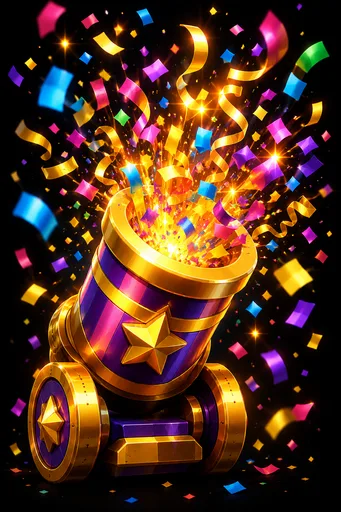
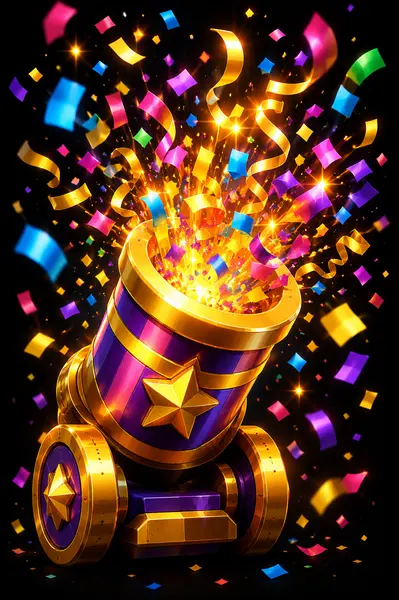
feat: victory screen artwork, tap effects 2x slower, version system, buy dialog security fix
- Add artwork for 3 missing victory screens (404, Humble Brag, Moby Dick)
- Update confetti/lightning/royal victory screen artwork from new PNGs
- Slow all tap effects 2x (CSS + JS + remove timeouts synced)
- Fix buy dialog security: _storeBuyMode not reset on cancel allowed free purchases
- Version system: single source of truth in version.js (GAME_VERSION + BUILD_NUMBER)
  auto-populates badge, about screen, what's new header

diff --git a/tile-royale-app/tile-royale-app/www/js/skins/tileSkins.js b/tile-royale-app/tile-royale-app/www/js/skins/tileSkins.js
@@ -78,9 +78,9 @@ const SKINS = {
     { id:'vic_disco',     name:'Disco Survivor',      icon:'🕺', price:200,  owned:false, tier:'rare',      preview:'disco',     art:'assets/victory-art/vic-disco.webp',     tagline:'Still standing. Still dancing.' },
     { id:'vic_goat',      name:'Greatest Of All Taps',icon:'🐐', price:400,  owned:false, tier:'epic',      preview:'goat',      art:'assets/victory-art/vic-goat.webp',      tagline:'The GOAT has arrived.' },
     { id:'vic_cheese',    name:'Big Cheese Energy',   icon:'🧀', price:400,  owned:false, tier:'epic',      preview:'cheese',    art:'assets/victory-art/vic-cheese.webp',    tagline:'Respect the cheese.' },
-    { id:'vic_404',       name:'404: Skill Found',    icon:'💻', price:800,  owned:false, tier:'legendary', preview:'404',                                                    tagline:'Error: Defeat not found.' },
-    { id:'vic_humble',    name:'Humble Brag',         icon:'🙄', price:800,  owned:false, tier:'legendary', preview:'humble',                                                 tagline:'Just lucky. Again.' },
-    { id:'vic_mobydick',  name:'Moby Dick',           icon:'🐋', price:0,    owned:false, tier:'default',   preview:'mobydick',  whale:true,                                  tagline:'The ocean answers to you.' },
+    { id:'vic_404',       name:'404: Skill Found',    icon:'💻', price:800,  owned:false, tier:'legendary', preview:'404',      art:'assets/victory-art/vic-404.webp',      tagline:'Error: Defeat not found.' },
+    { id:'vic_humble',    name:'Humble Brag',         icon:'🙄', price:800,  owned:false, tier:'legendary', preview:'humble',   art:'assets/victory-art/vic-humble.webp',   tagline:'Just lucky. Again.' },
+    { id:'vic_mobydick',  name:'Moby Dick',           icon:'🐋', price:0,    owned:false, tier:'default',   preview:'mobydick', art:'assets/victory-art/vic-mobydick.webp', whale:true, tagline:'The ocean answers to you.' },
   ],
   tapeffect: [
     { id: 'tap_ripple',    name: 'Ripple',        icon: '💧', price: 0,    owned: true,  tier:'default' },
@@ -315,20 +315,20 @@ function getBurningStyle(fxSkinId) {
 // Returns inline style for tap effect overlay div
 function getTapStyle(tapSkinId) {
   const styles = {
-    tap_ripple:    { borderRadius:'50%', background:'rgba(255,255,255,0.35)', animation:'rippleAnim 0.4s ease-out forwards' },
-    tap_explosion: { borderRadius:'20%', background:'radial-gradient(circle,#ff8800,#ff2200)', animation:'explodeAnim 0.4s ease-out forwards' },
-    tap_starburst: { background:'radial-gradient(circle,#ffff00,#ffaa00)', clipPath:'polygon(50% 0%,61% 35%,98% 35%,68% 57%,79% 91%,50% 70%,21% 91%,32% 57%,2% 35%,39% 35%)', animation:'starAnim 0.45s ease-out forwards' },
-    tap_shatter:   { border:'2px solid #aaddff', borderRadius:'4px', animation:'shatterAnim 0.4s ease-out forwards' },
-    tap_lightning: { width:'3px', height:'100%', left:'50%', transform:'translateX(-50%)', background:'linear-gradient(to bottom,#ffff00,#ffffff)', boxShadow:'0 0 6px #ffff00', animation:'lightningAnim 0.3s ease-out forwards' },
-    tap_smoke:     { borderRadius:'50%', background:'radial-gradient(circle,rgba(180,180,180,0.6),transparent)', animation:'smokeAnim 0.5s ease-out forwards' },
-    tap_confetti:  { borderRadius:'30%', background:'conic-gradient(#ff0000,#ffff00,#00ff00,#0000ff,#ff00ff,#ff0000)', animation:'confettiAnim 0.5s ease-out forwards' },
-    tap_icecrack:  { border:'2px solid #aaddff', background:'rgba(150,200,255,0.3)', animation:'icecrackAnim 0.4s ease-out forwards' },
-    tap_portal:    { borderRadius:'50%', background:'conic-gradient(#8800ff,#0044ff,#8800ff)', animation:'portalAnim 0.5s ease-out forwards' },
-    tap_neonpulse: { borderRadius:'50%', border:'2px solid #00ffff', boxShadow:'0 0 8px #00ffff', animation:'neonpulseAnim 0.4s ease-out forwards' },
+    tap_ripple:    { borderRadius:'50%', background:'rgba(255,255,255,0.35)', animation:'rippleAnim 0.8s ease-out forwards' },
+    tap_explosion: { borderRadius:'20%', background:'radial-gradient(circle,#ff8800,#ff2200)', animation:'explodeAnim 0.8s ease-out forwards' },
+    tap_starburst: { background:'radial-gradient(circle,#ffff00,#ffaa00)', clipPath:'polygon(50% 0%,61% 35%,98% 35%,68% 57%,79% 91%,50% 70%,21% 91%,32% 57%,2% 35%,39% 35%)', animation:'starAnim 0.9s ease-out forwards' },
+    tap_shatter:   { border:'2px solid #aaddff', borderRadius:'4px', animation:'shatterAnim 0.8s ease-out forwards' },
+    tap_lightning: { width:'3px', height:'100%', left:'50%', transform:'translateX(-50%)', background:'linear-gradient(to bottom,#ffff00,#ffffff)', boxShadow:'0 0 6px #ffff00', animation:'lightningAnim 0.6s ease-out forwards' },
+    tap_smoke:     { borderRadius:'50%', background:'radial-gradient(circle,rgba(180,180,180,0.6),transparent)', animation:'smokeAnim 1.0s ease-out forwards' },
+    tap_confetti:  { borderRadius:'30%', background:'conic-gradient(#ff0000,#ffff00,#00ff00,#0000ff,#ff00ff,#ff0000)', animation:'confettiAnim 1.0s ease-out forwards' },
+    tap_icecrack:  { border:'2px solid #aaddff', background:'rgba(150,200,255,0.3)', animation:'icecrackAnim 0.8s ease-out forwards' },
+    tap_portal:    { borderRadius:'50%', background:'conic-gradient(#8800ff,#0044ff,#8800ff)', animation:'portalAnim 1.0s ease-out forwards' },
+    tap_neonpulse: { borderRadius:'50%', border:'2px solid #00ffff', boxShadow:'0 0 8px #00ffff', animation:'neonpulseAnim 0.8s ease-out forwards' },
     // Whale exclusive
-    tap_shockwave: { borderRadius:'50%', border:'3px solid #00e5ff', boxShadow:'0 0 12px #00e5ff', animation:'shockwaveAnim 0.5s ease-out forwards' },
-    tap_goldcrack: { borderRadius:'8px', background:'conic-gradient(#ffd700,#ffaa00,#ff8c00,#ffd700)', boxShadow:'0 0 12px rgba(255,215,0,0.8)', animation:'goldcrackAnim 0.45s ease-out forwards' },
-    tap_meteor:    { borderRadius:'30% 70% 70% 30%', border:'2px solid #ff6600', background:'linear-gradient(135deg,#ff2200,#ff8800,#ffcc00)', boxShadow:'0 0 16px rgba(255,100,0,0.8)', animation:'meteorAnim 0.5s ease-out forwards' },
+    tap_shockwave: { borderRadius:'50%', border:'3px solid #00e5ff', boxShadow:'0 0 12px #00e5ff', animation:'shockwaveAnim 1.0s ease-out forwards' },
+    tap_goldcrack: { borderRadius:'8px', background:'conic-gradient(#ffd700,#ffaa00,#ff8c00,#ffd700)', boxShadow:'0 0 12px rgba(255,215,0,0.8)', animation:'goldcrackAnim 0.9s ease-out forwards' },
+    tap_meteor:    { borderRadius:'30% 70% 70% 30%', border:'2px solid #ff6600', background:'linear-gradient(135deg,#ff2200,#ff8800,#ffcc00)', boxShadow:'0 0 16px rgba(255,100,0,0.8)', animation:'meteorAnim 1.0s ease-out forwards' },
   };
   return styles[tapSkinId] || styles.tap_ripple;
 }
@@ -384,7 +384,7 @@ function startMiniAnimations(tab) {
         r.style.cssText = 'position:absolute;inset:0;width:100%;height:100%;';
         Object.assign(r.style, tStyle);
         tile.appendChild(r);
-        setTimeout(() => r.remove(), 500);
+        setTimeout(() => r.remove(), 1000);
 
         step = 0;
         burnIdx = Math.floor(Math.random() * 9);
@@ -427,15 +427,16 @@ function closeBuyDialog() {
   document.getElementById('buyDialogOverlay').classList.remove('show');
   pendingBuySkin = null;
   pendingBuyTab = null;
+  window._storeBuyMode = false;
+  storePendingCb = null;
 }
 
 function confirmBuy() {
   // Store generic callback (bundles, items, ad rewards)
   if (window._storeBuyMode && storePendingCb) {
-    window._storeBuyMode = false;
+    const cb = storePendingCb;
     closeBuyDialog();
-    storePendingCb();
-    storePendingCb = null;
+    cb();
     return;
   }
   if (!pendingBuySkin || !pendingBuyTab) return;

diff --git a/tile-royale-app/tile-royale-app/www/css/animations.css b/tile-royale-app/tile-royale-app/www/css/animations.css
@@ -10,16 +10,16 @@
   @keyframes portalAnim   { 0% { transform: scale(0) rotate(0deg); opacity: 1; } 100% { transform: scale(3) rotate(720deg); opacity: 0; } }
   @keyframes neonpulseAnim{ 0% { transform: scale(1); opacity: 1; } 100% { transform: scale(3.5); opacity: 0; } }
 
-  .tap-ripple    { border-radius: 50%; background: rgba(255,255,255,0.3); width: 100%; height: 100%; animation: rippleAnim 0.4s ease-out forwards; }
-  .tap-explosion { border-radius: 20%; background: radial-gradient(circle, #ff8800, #ff2200); width: 100%; height: 100%; animation: explodeAnim 0.4s ease-out forwards; }
-  .tap-starburst { background: radial-gradient(circle, #ffff00, #ffaa00); clip-path: polygon(50% 0%,61% 35%,98% 35%,68% 57%,79% 91%,50% 70%,21% 91%,32% 57%,2% 35%,39% 35%); width: 100%; height: 100%; animation: starAnim 0.45s ease-out forwards; }
-  .tap-shatter   { border: 3px solid #aaddff; border-radius: 4px; width: 90%; height: 90%; animation: shatterAnim 0.4s ease-out forwards; }
-  .tap-lightning { width: 4px; height: 100%; background: linear-gradient(to bottom, #ffff00, #ffffff); box-shadow: 0 0 8px #ffff00; animation: lightningAnim 0.3s ease-out forwards; }
-  .tap-smoke     { border-radius: 50%; background: radial-gradient(circle, rgba(180,180,180,0.6), transparent); width: 100%; height: 100%; animation: smokeAnim 0.5s ease-out forwards; }
-  .tap-confetti  { border-radius: 30%; background: conic-gradient(#ff0000,#ffff00,#00ff00,#0000ff,#ff00ff,#ff0000); width: 80%; height: 80%; animation: confettiAnim 0.5s ease-out forwards; }
-  .tap-icecrack  { border: 3px solid #aaddff; background: rgba(150,200,255,0.3); width: 100%; height: 100%; animation: icecrackAnim 0.4s ease-out forwards; }
-  .tap-portal    { border-radius: 50%; background: conic-gradient(#8800ff,#0044ff,#8800ff); width: 100%; height: 100%; animation: portalAnim 0.5s ease-out forwards; }
-  .tap-neonpulse { border-radius: 50%; border: 3px solid #00ffff; box-shadow: 0 0 12px #00ffff; width: 100%; height: 100%; animation: neonpulseAnim 0.4s ease-out forwards; }
+  .tap-ripple    { border-radius: 50%; background: rgba(255,255,255,0.3); width: 100%; height: 100%; animation: rippleAnim 0.8s ease-out forwards; }
+  .tap-explosion { border-radius: 20%; background: radial-gradient(circle, #ff8800, #ff2200); width: 100%; height: 100%; animation: explodeAnim 0.8s ease-out forwards; }
+  .tap-starburst { background: radial-gradient(circle, #ffff00, #ffaa00); clip-path: polygon(50% 0%,61% 35%,98% 35%,68% 57%,79% 91%,50% 70%,21% 91%,32% 57%,2% 35%,39% 35%); width: 100%; height: 100%; animation: starAnim 0.9s ease-out forwards; }
+  .tap-shatter   { border: 3px solid #aaddff; border-radius: 4px; width: 90%; height: 90%; animation: shatterAnim 0.8s ease-out forwards; }
+  .tap-lightning { width: 4px; height: 100%; background: linear-gradient(to bottom, #ffff00, #ffffff); box-shadow: 0 0 8px #ffff00; animation: lightningAnim 0.6s ease-out forwards; }
+  .tap-smoke     { border-radius: 50%; background: radial-gradient(circle, rgba(180,180,180,0.6), transparent); width: 100%; height: 100%; animation: smokeAnim 1.0s ease-out forwards; }
+  .tap-confetti  { border-radius: 30%; background: conic-gradient(#ff0000,#ffff00,#00ff00,#0000ff,#ff00ff,#ff0000); width: 80%; height: 80%; animation: confettiAnim 1.0s ease-out forwards; }
+  .tap-icecrack  { border: 3px solid #aaddff; background: rgba(150,200,255,0.3); width: 100%; height: 100%; animation: icecrackAnim 0.8s ease-out forwards; }
+  .tap-portal    { border-radius: 50%; background: conic-gradient(#8800ff,#0044ff,#8800ff); width: 100%; height: 100%; animation: portalAnim 1.0s ease-out forwards; }
+  .tap-neonpulse { border-radius: 50%; border: 3px solid #00ffff; box-shadow: 0 0 12px #00ffff; width: 100%; height: 100%; animation: neonpulseAnim 0.8s ease-out forwards; }
 
   /* ===== BOT ACTIVITY INDICATOR ===== */
   .bot-feed {

diff --git a/tile-royale-app/tile-royale-app/www/index.html b/tile-royale-app/tile-royale-app/www/index.html
@@ -42,7 +42,7 @@
     pointer-events:none;user-select:none;">TAP TO START</div>
 </div>
 
-<div id="versionBadge" style="position:fixed; bottom:8px; right:8px; font-size:10px; letter-spacing:1px; color:rgba(255,255,255,0.25); z-index:9999; pointer-events:none;">v0.5.6</div>
+<div id="versionBadge" style="position:fixed; bottom:8px; right:8px; font-size:10px; letter-spacing:1px; color:rgba(255,255,255,0.25); z-index:9999; pointer-events:none;"></div>
 
 <!-- ===== ONBOARDING SCREEN ===== -->
 <div class="screen active" id="onboardingScreen">
@@ -1130,12 +1130,12 @@
   <!-- App identity -->
   <div style="display:flex;flex-direction:column;align-items:center;gap:6px;margin-bottom:24px;">
     <div style="font-family:'Bebas Neue',sans-serif;font-size:48px;letter-spacing:4px;background:linear-gradient(135deg,var(--fire),var(--fire2),var(--gold));-webkit-background-clip:text;-webkit-text-fill-color:transparent;background-clip:text;">TILE ROYALE</div>
-    <div class="about-version-badge">v1.0.0 · Build 42</div>
+    <div class="about-version-badge" id="aboutVersionText"></div>
     <div style="font-size:12px;color:var(--muted);letter-spacing:2px;">Last tap standing</div>
   </div>
 
   <!-- What's new -->
-  <div class="about-section-hdr">🆕 What's New in v1.0.0</div>
+  <div class="about-section-hdr" id="aboutWhatsNewHdr">🆕 What's New</div>
   <div class="about-changelog">
     <div class="changelog-item">
       <div class="changelog-dot" style="background:var(--green);"></div>
@@ -1166,7 +1166,7 @@
   <!-- Version history -->
   <div class="about-section-hdr">📅 Version History</div>
   <div class="about-changelog">
-    <div style="font-family:'Bebas Neue',sans-serif;font-size:16px;letter-spacing:2px;color:var(--text);margin-bottom:6px;">v1.0.0 — Launch</div>
+    <div id="aboutVersionHistoryEntry" style="font-family:'Bebas Neue',sans-serif;font-size:16px;letter-spacing:2px;color:var(--text);margin-bottom:6px;"></div>
     <div style="font-size:12px;color:var(--muted);letter-spacing:1px;line-height:1.6;">Full launch with all 5 game modes, achievement system, whale bundles, leaderboards, and complete skin ecosystem.</div>
   </div>
 

diff --git a/tile-royale-app/tile-royale-app/www/js/systems/version.js b/tile-royale-app/tile-royale-app/www/js/systems/version.js
@@ -1,3 +1,25 @@
+// ===== VERSION — SINGLE SOURCE OF TRUTH =====
+// When bumping: update GAME_VERSION + BUILD_NUMBER here AND build.gradle versionName/versionCode
+const GAME_VERSION = 'v0.5.8';
+const BUILD_NUMBER  = 64;
+
+document.addEventListener('DOMContentLoaded', () => {
+  const v = GAME_VERSION;
+  const b = BUILD_NUMBER;
+
+  const badge = document.getElementById('versionBadge');
+  if (badge) badge.textContent = v;
+
+  const aboutVer = document.getElementById('aboutVersionText');
+  if (aboutVer) aboutVer.textContent = `${v} · Build ${b}`;
+
+  const whatsNewHdr = document.getElementById('aboutWhatsNewHdr');
+  if (whatsNewHdr) whatsNewHdr.textContent = `🆕 What's New in ${v}`;
+
+  const historyEntry = document.getElementById('aboutVersionHistoryEntry');
+  if (historyEntry) historyEntry.textContent = `${v} — Launch`;
+});
+
 // ===== VERSION GATE =====
 function parseVersion(v) {
   return (v || '').replace(/^v/, '').split('.').map(Number);
@@ -25,4 +47,3 @@ async function checkClientVersion() {
     // Network unavailable — silently allow (don't block offline users)
   }
 }
-

diff --git a/tile-royale-app/tile-royale-app/www/css/skins.css b/tile-royale-app/tile-royale-app/www/css/skins.css
@@ -248,7 +248,7 @@
     border-radius: 50%; border: 3px solid #00e5ff;
     box-shadow: 0 0 12px #00e5ff, inset 0 0 8px rgba(0,229,255,0.2);
     width: 100%; height: 100%;
-    animation: shockwaveAnim 0.5s ease-out forwards;
+    animation: shockwaveAnim 1.0s ease-out forwards;
   }
 
   /* Gold Crack — shattering gold fracture */
@@ -262,7 +262,7 @@
     background: conic-gradient(#ffd700, #ffaa00, #ff8c00, #ffd700, #ffe066, #ffd700);
     box-shadow: 0 0 16px rgba(255,215,0,0.8);
     width: 100%; height: 100%;
-    animation: goldcrackAnim 0.45s ease-out forwards;
+    animation: goldcrackAnim 0.9s ease-out forwards;
   }
 
   /* Also add whale table skin backgrounds to applyTableBgToEl */
@@ -339,7 +339,7 @@
     background: linear-gradient(135deg, #ff2200, #ff8800, #ffcc00);
     box-shadow: 0 0 16px rgba(255,100,0,0.8);
     width: 100%; height: 100%;
-    animation: meteorAnim 0.5s ease-out forwards;
+    animation: meteorAnim 1.0s ease-out forwards;
   }
 
   /* Skin tier badges */

diff --git a/tile-royale-app/tile-royale-app/www/js/game/gameLoop.js b/tile-royale-app/tile-royale-app/www/js/game/gameLoop.js
@@ -431,7 +431,7 @@ function _originalTapTile(idx) {
   if (el) {
     el.className = 'tile tapped'; el.innerHTML = '';
     const r = document.createElement('div'); r.className = getTapEffectClass(); el.appendChild(r);
-    setTimeout(() => r.remove(), 400);
+    setTimeout(() => r.remove(), 800);
   }
   burningTiles = burningTiles.filter(i => i !== idx);
   currentBurningTile = burningTiles[0] ?? null;

diff --git a/tile-royale-app/tile-royale-app/www/js/multiplayer/colyseus.js b/tile-royale-app/tile-royale-app/www/js/multiplayer/colyseus.js
@@ -731,7 +731,7 @@ function tapTile(idx) {
       if (el) {
         el.className = 'tile tapped'; el.innerHTML = '✓';
         const r = document.createElement('div'); r.className = getTapEffectClass(); el.appendChild(r);
-        setTimeout(() => r.remove(), 400);
+        setTimeout(() => r.remove(), 800);
       }
       playSound('tap'); vibrate(25);
       hideFirstGameHint();

diff --git a/tile-royale-app/tile-royale-app/www/js/modes/wild.js b/tile-royale-app/tile-royale-app/www/js/modes/wild.js
@@ -216,7 +216,7 @@ const WILD_ITEM_LEVELS = {
   muscle_relaxant: 12,
 };
 
-const GAME_VERSION = "v0.5.6";
+
 let wildLoadout = []; // [{itemId, mode}] — built on wildScreen, consumed by auto-trigger system
 let wildItemCooldownEnd = 0;
 const WILD_ITEM_COOLDOWN_MS = 4000;
